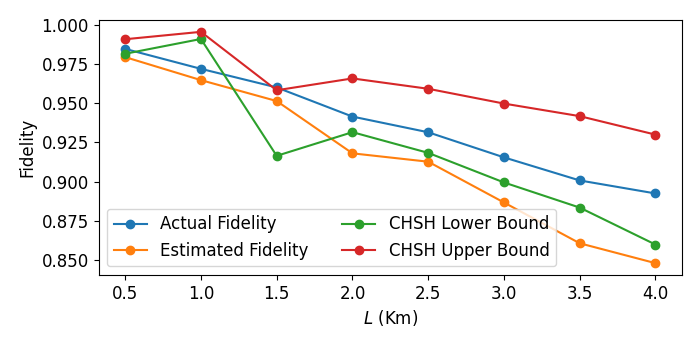
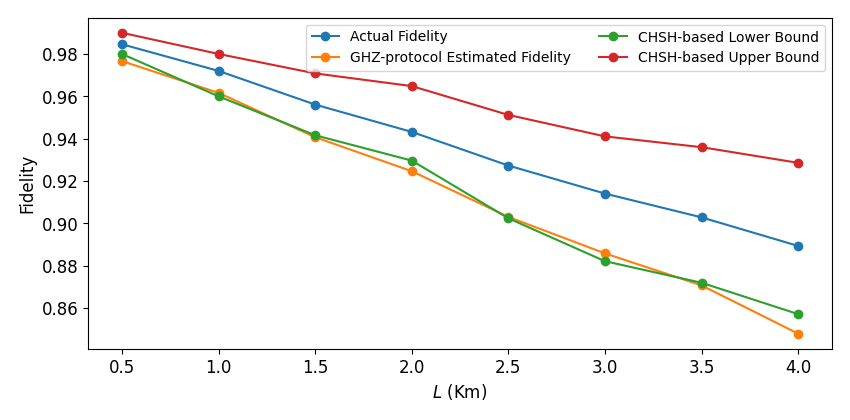
final pictures

diff --git a/new_chsh/results/plot_figure_both.py b/new_chsh/results/plot_figure_both.py
@@ -1,21 +1,17 @@
 # -*- coding: utf-8 -*-
 r"""
-Extended plotting script: GHZ **and** matching CHSH estimates
+Extended plotting script: GHZ **and** matching CHSH-based estimates
 ===========================================================
 This keeps the original API and variable names while adding:
 
-* **process_chsh_results** – scans sister folders with the suffix
-  ``_chsh``, extracts the *Run 1* ``s_value``, and computes lower/upper
-  CHSH‑based fidelity bounds:
+* **process_chsh_results** – scans sister folders with suffix `_chsh`, extracts Run 1 `s_value` and computes lower/upper CHSH‐based fidelity bounds:
 
   .. math::
 
      F_{\text{lower}} = \frac{s}{2\sqrt{2}}, \qquad
      F_{\text{upper}} = \frac{s}{4\sqrt{2}} + 0.5
 
-* **plot_figure** now overlays these bounds on the existing *Actual* vs.
-  *Estimated* fidelity plot. If the companion folder is missing, the
-  script falls back to the GHZ curves only.
+* **plot_figure** now overlays these bounds on the existing *Actual* vs. *GHZ‑protocol Estimated Fidelity* plot. If the companion folder is missing, the script shows only GHZ curves.
 
 All other functions, filenames, and CLI examples remain unchanged.
 """
@@ -33,7 +29,7 @@ import numpy as np
 # --------------------------------------------------------------------
 # Matplotlib global style
 # --------------------------------------------------------------------
-WIDTH = 7
+WIDTH = 8.5  # increased from 7 to widen figures and prevent label overlap
 HEIGHT = WIDTH * (np.sqrt(5) - 1.0) / 2.5
 plt.rcParams.update({
     "figure.figsize": (WIDTH, HEIGHT),
@@ -51,12 +47,10 @@ def process_results(file_path: str, re_expressions: str) -> Tuple[
     List[float],               # actual fidelities (mean)
     List[float],               # estimated fidelities (2·p_ghz−1)
 ]:
-    """Parse a folder of GHZ JSON files (single‑run datasets)."""
-
+    """Parse GHZ JSON files in a folder (single‑run datasets)."""
     factors, second_vals_dict = [], {}
     actual_dict, est_dict = {}, {}
     multi_factor = False
-
     for root, _, files in os.walk(file_path):
         for fname in files:
             m = re.search(re_expressions, fname)
@@ -68,24 +62,19 @@ def process_results(file_path: str, re_expressions: str) -> Tuple[
                 multi_factor = True
             else:
                 factors.append(factor)
-
             with open(Path(root, fname), "r", encoding="utf-8") as f:
                 data = json.load(f)
-
             actual = np.mean(list(data["actual_fid"].values())[0])
             p_ghz = list(data["p_ghz"].values())[0]
             est = 2 * p_ghz - 1
-
             actual_dict[factor] = actual
             est_dict[factor] = est
-
     if multi_factor:
         factors = sorted(second_vals_dict.keys())
         second_vals = [second_vals_dict[x] for x in factors]
     else:
         factors = sorted(factors)
         second_vals = None
-
     actual = [actual_dict[x] for x in factors]
     est = [est_dict[x] for x in factors]
     return factors, second_vals, actual, est
@@ -96,13 +85,11 @@ def process_results(file_path: str, re_expressions: str) -> Tuple[
 
 def process_chsh_results(folder_chsh: str, re_expressions: str,
                          factors_order: List[float]) -> Tuple[List[float], List[float]]:
-    """Return CHSH lower/upper fidelity bounds aligned with *factors_order*."""
+    """Compute CHSH-based lower/upper fidelity bounds aligned to factors_order."""
     low_d, up_d = {}, {}
-
     if not os.path.isdir(folder_chsh):
         nan = [np.nan] * len(factors_order)
         return nan, nan
-
     for root, _, files in os.walk(folder_chsh):
         for fname in files:
             m = re.search(re_expressions, fname)
@@ -111,10 +98,9 @@ def process_chsh_results(folder_chsh: str, re_expressions: str,
             factor = float(m.group(1))
             with open(Path(root, fname), "r", encoding="utf-8") as f:
                 data = json.load(f)
-            s_val = list(data["s_value"].values())[0]  # Run‑1
+            s_val = list(data["s_value"].values())[0]  # Run‑1 only
             low_d[factor] = s_val / (2 * sqrt(2))
             up_d[factor] = s_val / (4 * sqrt(2)) + 0.5
-
     low = [low_d.get(x, np.nan) for x in factors_order]
     up = [up_d.get(x, np.nan) for x in factors_order]
     return low, up
@@ -132,6 +118,7 @@ def plot_lines(xs: Sequence[Sequence[float]],
                save_dir: str = "./figures",
                annotation: Optional[Sequence[float]] = None,
                ncols: int = 1):
+    """Draw multiple lines with small‑font legends and annotations."""
     os.makedirs(save_dir, exist_ok=True)
     fig, ax = plt.subplots()
     for x, y, leg in zip(xs, ys, legends):
@@ -140,16 +127,16 @@ def plot_lines(xs: Sequence[Sequence[float]],
             for i, (xi, yi) in enumerate(zip(x, y)):
                 if i < len(annotation):
                     ax.annotate(f"{annotation[i]}", (xi, yi),
-                                textcoords="offset points", xytext=(0, 5), ha="center")
+                                textcoords="offset points", xytext=(0, 5), ha="center", fontsize=8)
     ax.set_xlabel(x_label)
     ax.set_ylabel(y_label)
-    ax.legend(ncols=ncols)
+    ax.legend(ncols=ncols, fontsize=10)
     plt.tight_layout()
     plt.savefig(Path(save_dir) / f"{title}.png")
     plt.close()
 
 # --------------------------------------------------------------------
-# High‑level plotting routine
+# High‑level plotting routine with special Sample Size handling
 # --------------------------------------------------------------------
 
 def plot_figure(folder: str,
@@ -157,24 +144,35 @@ def plot_figure(folder: str,
                 title: str,
                 x_label: str,
                 save_dir: str = "./figures"):
-    """Plot GHZ Actual/Estimated and CHSH bounds in one figure."""
-
+    """Plot GHZ and CHSH-based curves; special x‑axis for sample size."""
     factors, second_vals, actual, est = process_results(folder, re_expr)
     low, up = process_chsh_results(f"{folder}_chsh", re_expr, factors)
-
     ys = [actual, est]
-    legends = ["Actual Fidelity", "Estimated Fidelity"]
+    legends = ["Actual Fidelity", "GHZ-protocol Estimated Fidelity"]
     if not np.all(np.isnan(low)):
         ys += [low, up]
-        legends += ["CHSH Lower Bound", "CHSH Upper Bound"]
-
+        legends += ["CHSH-based Lower Bound", "CHSH-based Upper Bound"]
     annotation = second_vals if second_vals is not None else None
-    plot_lines([factors] * len(ys), ys, legends,
-               f"{title}_fid", x_label, "Fidelity",
-               save_dir=save_dir, annotation=annotation, ncols=2)
+    if title == "Change Sample Size":
+        # Custom x‑axis labels
+        fig, ax = plt.subplots()
+        for x, y, leg in zip([factors] * len(ys), ys, legends):
+            ax.plot(x, y, label=leg, marker="o")
+        ax.set_xlabel("Sample Number")
+        ax.set_ylabel("Fidelity")
+        ax.set_xticks([0.1, 0.2, 0.3, 0.4, 0.5, 0.6])
+        ax.set_xticklabels(["5k", "10k", "15k", "20k", "25k", "30k"])
+        ax.legend(ncols=2, fontsize=10)
+        plt.tight_layout()
+        plt.savefig(Path(save_dir) / f"{title}_fid.png")
+        plt.close()
+    else:
+        plot_lines([factors] * len(ys), ys, legends,
+                   f"{title}_fid", x_label, "Fidelity",
+                   save_dir=save_dir, annotation=annotation, ncols=2)
 
 # --------------------------------------------------------------------
-# Convenience wrapper for two folders
+# Convenience wrapper for twin folders
 # --------------------------------------------------------------------
 
 def plot_figure_twin(folder1: str, folder2: str,
@@ -184,21 +182,30 @@ def plot_figure_twin(folder1: str, folder2: str,
     plot_figure(folder2, re_expr, title, x_label, save_dir)
 
 # --------------------------------------------------------------------
-# CLI examples (LaTeX strings with single backslash)
+# CLI invocation updated for new folders
 # --------------------------------------------------------------------
 if __name__ == "__main__":
-    plot_figure("./change_sample_size_result_0.1_10000", r"sample_([\d\.]+)_alpha",
-                "Change Sample Size", r"$\beta$")
-
-    plot_figure_twin("./change_distance_result_0.1_10000", "./change_distance_result_0.1_10000",
-                     r"distance_([\d\.]+)_", "Change Node Distance", r"$L$ (Km)")
-
-    plot_figure_twin("./change_channel_rate_result_0.1_10000", "./change_channel_rate_result_0.1_10000",
-                     r"channel_([\d\.]+)_", "Change Depolar Rate", r"$R_c$ (Hz)")
-
-    plot_figure("./sample_rate_change_with_distance_0.1_10000",
-                r"distance_([\d\.]+)_sample_([\d\.]+)",
-                "Change Distance with Sample Rate", r"$L$ (Km)")
-
-    plot_figure_twin("./change_alpha_result_0.1_10000", "./change_alpha_result_0.1_10000",
-                     r"alpha_([\d\.]+).json", "Change Alpha", r"$\alpha$")
+    # Depolarization rate sweep
+    plot_figure_twin(
+        "./change_channel_rate_result_0.1_60000",
+        "./change_channel_rate_result_0.1_60000",
+        r"channel_([\d\.]+)_",
+        "Change Depolar Rate",
+        r"$R_c$ (Hz)"
+    )
+    # Node distance sweep
+    plot_figure_twin(
+        "./change_distance_result_0.1_60000",
+        "./change_distance_result_0.1_60000",
+        r"distance_([\d\.]+)_",
+        "Change Node Distance",
+        r"$L$ (Km)"
+    )
+    # Sample size sweep
+    plot_figure_twin(
+        "./change_sample_size_result_0.1_50000",
+        "./change_sample_size_result_0.1_50000",
+        r"sample_([\d\.]+)_alpha",
+        "Change Sample Size",
+        "Sample Number"
+    )
